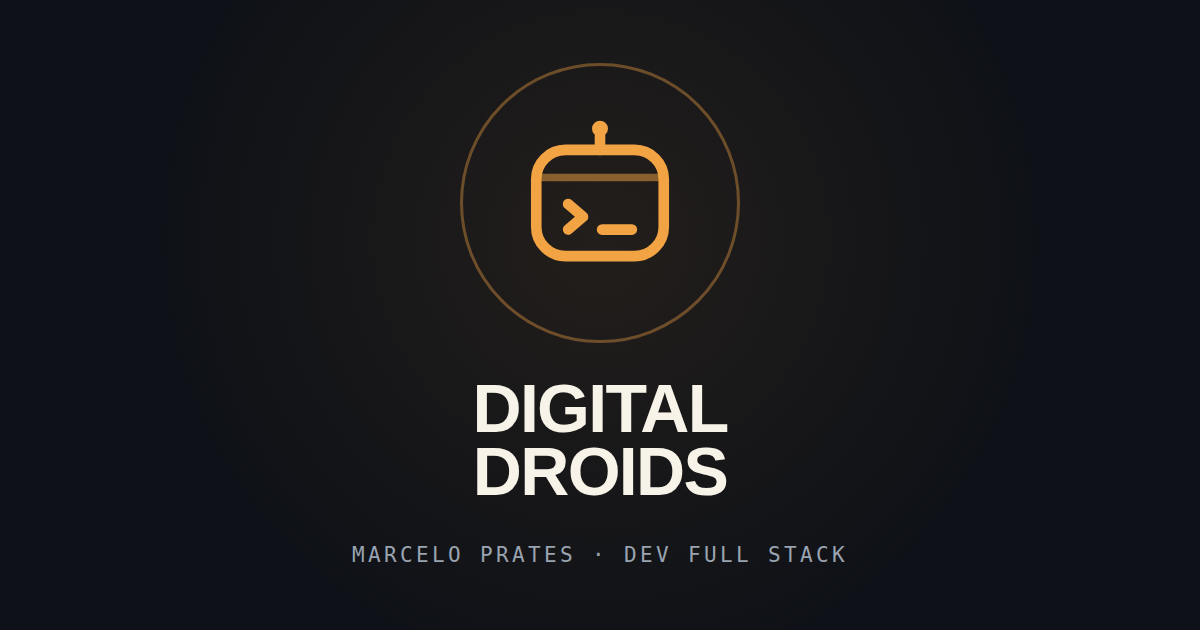
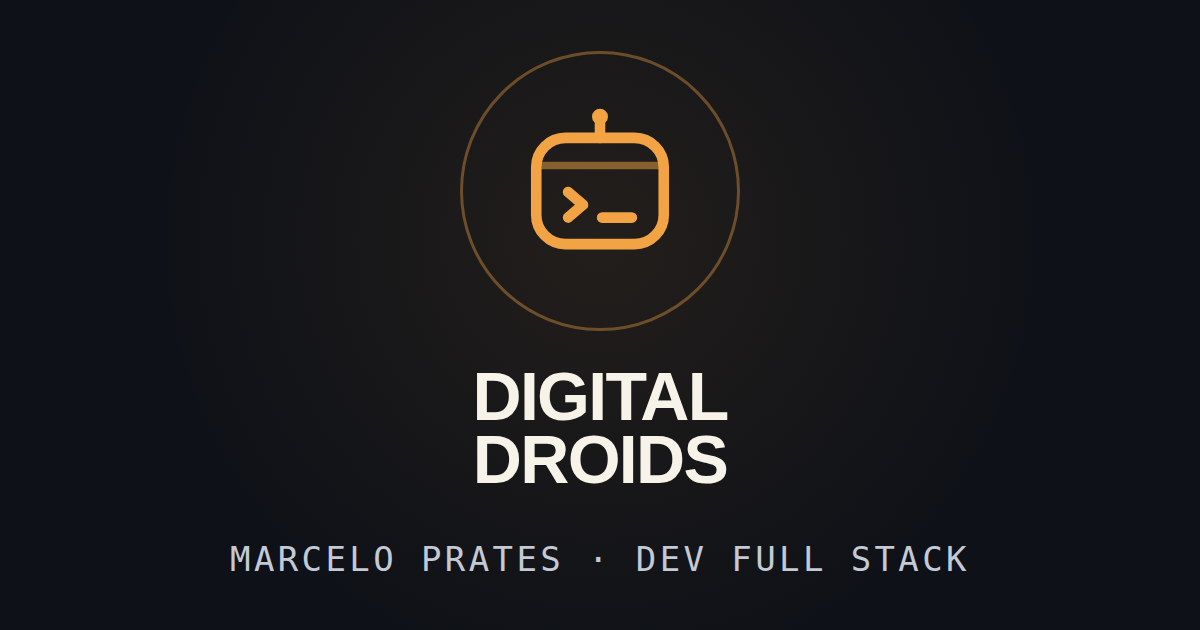
feat: dados estruturados e og-image legível no preview
og-image: subtinha legível no tamanho real
- A linha "MARCELO PRATES · DEV FULL STACK" virava borrão no feed do
  LinkedIn, que reduz a imagem para ~480px de largura.
- Fonte de 21px para 34px, peso 500, cinza mais claro e menos
  letter-spacing. Verificado reduzindo a imagem ao tamanho do preview,
  não no arquivo em tamanho cheio — o defeito só aparecia no destino.

Dados estruturados (JSON-LD)
- index.html: Person + Organization + WebSite, com Marcelo e Digital
  Droids ligados por @id.
- Páginas de caso: Article com author e datePublished.
- Resolve os avisos "No author found" e "No publication date found" do
  Post Inspector, e faz o Google tratar o site como uma pessoa com nome,
  cargo e perfis (sameAs), em vez de página genérica.
- alumniOf declara apenas a ETEP, que é a formação concluída. UNINTER e
  Rocketseat estão em andamento e schema.org trata alumniOf como
  concluído — declarar diploma inexistente em dado estruturado envelhece
  mal.

Verificado em três níveis: HTML estrito, JSON-LD parseando como JSON puro
e parseando dentro do navegador. Vírgula errada no JSON-LD faz o Google
descartar o bloco inteiro em silêncio, sem erro visível.

diff --git a/index.html b/index.html
@@ -54,6 +54,65 @@
     })();
   </script>
 
+
+  <!-- Dados estruturados: diz ao Google e ao LinkedIn que esta página é uma
+       PESSOA, não um site genérico. Resolve o "No author found" do inspector.
+       Só afirmações verificáveis aqui — nada de título ou formação inflada. -->
+  <script type="application/ld+json">
+  {
+    "@context": "https://schema.org",
+    "@graph": [
+      {
+        "@type": "Person",
+        "@id": "https://marcelomprates.github.io/#marcelo",
+        "name": "Marcelo de Morais Prates",
+        "alternateName": "Marcelo Prates",
+        "jobTitle": "Desenvolvedor Full Stack",
+        "email": "marcelomprates@gmail.com",
+        "url": "https://marcelomprates.github.io/",
+        "image": "https://marcelomprates.github.io/og-image.png",
+        "address": {
+          "@type": "PostalAddress",
+          "addressLocality": "Guarulhos",
+          "addressRegion": "SP",
+          "addressCountry": "BR"
+        },
+        "knowsAbout": [
+          "Desenvolvimento full stack",
+          "Integração de sistemas",
+          "Automação de processos",
+          "Inteligência artificial aplicada",
+          "Python", "TypeScript", "JavaScript", "React", "Node.js", "Docker"
+        ],
+        "alumniOf": {
+          "@type": "EducationalOrganization",
+          "name": "ETEP Faculdades"
+        },
+        "sameAs": [
+          "https://www.linkedin.com/in/marcelo-de-morais-prates",
+          "https://github.com/marcelomprates"
+        ],
+        "worksFor": { "@id": "https://marcelomprates.github.io/#digitaldroids" }
+      },
+      {
+        "@type": "Organization",
+        "@id": "https://marcelomprates.github.io/#digitaldroids",
+        "name": "Digital Droids",
+        "url": "https://marcelomprates.github.io/",
+        "logo": "https://marcelomprates.github.io/droid.svg",
+        "founder": { "@id": "https://marcelomprates.github.io/#marcelo" },
+        "description": "Desenvolvimento, automação e integração de sistemas."
+      },
+      {
+        "@type": "WebSite",
+        "url": "https://marcelomprates.github.io/",
+        "name": "Marcelo Prates | Desenvolvedor Full Stack",
+        "inLanguage": "pt-BR",
+        "publisher": { "@id": "https://marcelomprates.github.io/#marcelo" }
+      }
+    ]
+  }
+  </script>
 </head>
 
 <body>

diff --git a/caso-pcp.html b/caso-pcp.html
@@ -49,6 +49,32 @@
     })();
   </script>
 
+
+  <!-- Article com autor e data: resolve "No author found" e "No publication
+       date found" que o Post Inspector do LinkedIn aponta. -->
+  <script type="application/ld+json">
+  {
+    "@context": "https://schema.org",
+    "@type": "Article",
+    "headline": "PCP Embalagem — estudo de caso",
+    "description": "Estudo de caso: sistema de Planejamento e Controle de Produção que substituiu as planilhas de uma indústria de embalagens — do comercial ao chão de fábrica, com o que precisei aprender no caminho.",
+    "image": "https://marcelomprates.github.io/og-image.png",
+    "inLanguage": "pt-BR",
+    "datePublished": "2026-08-17",
+    "dateModified": "2026-08-17",
+    "mainEntityOfPage": { "@type": "WebPage", "@id": "https://marcelomprates.github.io/caso-pcp.html" },
+    "author": {
+      "@type": "Person",
+      "name": "Marcelo de Morais Prates",
+      "url": "https://marcelomprates.github.io/",
+      "sameAs": [
+        "https://www.linkedin.com/in/marcelo-de-morais-prates",
+        "https://github.com/marcelomprates"
+      ]
+    },
+    "publisher": { "@type": "Person", "name": "Marcelo de Morais Prates" }
+  }
+  </script>
 </head>
 
 <body>

diff --git a/caso-financeiro.html b/caso-financeiro.html
@@ -48,6 +48,32 @@
     })();
   </script>
 
+
+  <!-- Article com autor e data: resolve "No author found" e "No publication
+       date found" que o Post Inspector do LinkedIn aponta. -->
+  <script type="application/ld+json">
+  {
+    "@context": "https://schema.org",
+    "@type": "Article",
+    "headline": "Controle Financeiro com IA — estudo de caso",
+    "description": "Estudo de caso: API que lê a nota fiscal pelo QR Code da NFC-e e usa um LLM para o relatório mensal — separando o que é cálculo determinístico do que é interpretação.",
+    "image": "https://marcelomprates.github.io/og-image.png",
+    "inLanguage": "pt-BR",
+    "datePublished": "2026-08-17",
+    "dateModified": "2026-08-17",
+    "mainEntityOfPage": { "@type": "WebPage", "@id": "https://marcelomprates.github.io/caso-financeiro.html" },
+    "author": {
+      "@type": "Person",
+      "name": "Marcelo de Morais Prates",
+      "url": "https://marcelomprates.github.io/",
+      "sameAs": [
+        "https://www.linkedin.com/in/marcelo-de-morais-prates",
+        "https://github.com/marcelomprates"
+      ]
+    },
+    "publisher": { "@type": "Person", "name": "Marcelo de Morais Prates" }
+  }
+  </script>
 </head>
 
 <body>

diff --git a/caso-b2b.html b/caso-b2b.html
@@ -48,6 +48,32 @@
     })();
   </script>
 
+
+  <!-- Article com autor e data: resolve "No author found" e "No publication
+       date found" que o Post Inspector do LinkedIn aponta. -->
+  <script type="application/ld+json">
+  {
+    "@context": "https://schema.org",
+    "@type": "Article",
+    "headline": "Plataforma B2B — estudo de caso",
+    "description": "Estudo de caso: plataforma B2B que tirou o pedido do WhatsApp e o levou direto ao ERP, sem redigitação — e o que integrar com uma API que você não controla me ensinou.",
+    "image": "https://marcelomprates.github.io/og-image.png",
+    "inLanguage": "pt-BR",
+    "datePublished": "2026-08-17",
+    "dateModified": "2026-08-17",
+    "mainEntityOfPage": { "@type": "WebPage", "@id": "https://marcelomprates.github.io/caso-b2b.html" },
+    "author": {
+      "@type": "Person",
+      "name": "Marcelo de Morais Prates",
+      "url": "https://marcelomprates.github.io/",
+      "sameAs": [
+        "https://www.linkedin.com/in/marcelo-de-morais-prates",
+        "https://github.com/marcelomprates"
+      ]
+    },
+    "publisher": { "@type": "Person", "name": "Marcelo de Morais Prates" }
+  }
+  </script>
 </head>
 
 <body>
